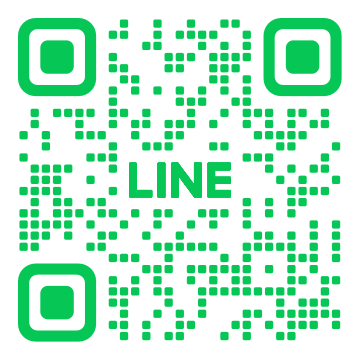
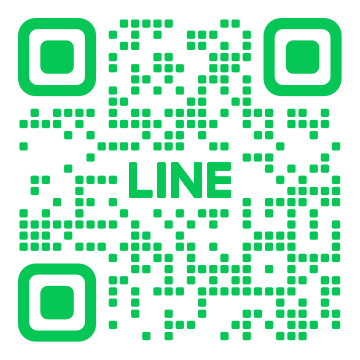
feat(contact): update official LINE OA QR code and link to https://lin.ee/qYT9XuK for Member and Owner

diff --git a/src/app/contact/page.tsx b/src/app/contact/page.tsx
@@ -38,10 +38,24 @@ export default function ContactPage() {
             <p>แชทกับทีมงานเพื่อสอบถามเรื่องบัญชี การสมัครงาน หรือการใช้งานเว็บไซต์</p>
             <small>@cyberjob</small>
           </div>
-          <div className="qr-code" aria-label="QR Code สำหรับติดต่อ CyberJob">
+          <a
+            href="https://lin.ee/qYT9XuK"
+            target="_blank"
+            rel="noopener noreferrer"
+            className="qr-code"
+            aria-label="QR Code สำหรับติดต่อ CyberJob"
+            title="สแกนหรือคลิกเพื่อเพิ่มเพื่อนทาง LINE"
+          >
             <img src="/contact/line-qr.png" alt="QR Code สำหรับติดต่อ CyberJob" onError={(event) => { event.currentTarget.style.display = "none"; }} />
-          </div>
-          <button type="button" className="line-action">แชทกับเรา <span aria-hidden="true">→</span></button>
+          </a>
+          <a
+            href="https://lin.ee/qYT9XuK"
+            target="_blank"
+            rel="noopener noreferrer"
+            className="line-action"
+          >
+            แชทกับเรา <span aria-hidden="true">→</span>
+          </a>
         </section>
 
         <section className="contact-methods" aria-label="ช่องทางติดต่ออื่น">

diff --git a/src/app/contact/contact.css b/src/app/contact/contact.css
@@ -15,8 +15,8 @@
 .line-badge { display: inline-flex; padding: 5px 10px; border-radius: 999px; background: #fff2a8; color: #6b5500; font-size: 11px; font-weight: 800; }
 .qr-code { position: relative; z-index: 1; width: 112px; height: 112px; padding: 7px; border-radius: 14px; background: #fff; box-shadow: 0 8px 20px rgb(0 80 40 / 16%); }
 .qr-code img { display: block; width: 100%; height: 100%; object-fit: cover; }
-.line-action { position: relative; z-index: 1; min-height: 48px; padding: 0 22px; border: 0; border-radius: 999px; background: #fff; color: #079b50; font-weight: 800; cursor: pointer; box-shadow: 0 8px 20px rgb(0 80 40 / 14%); }
-.line-action:hover { background: #effff6; transform: translateY(-1px); }
+.line-action { position: relative; z-index: 1; display: inline-flex; align-items: center; justify-content: center; text-decoration: none; min-height: 48px; padding: 0 22px; border: 0; border-radius: 999px; background: #fff; color: #079b50; font-weight: 800; cursor: pointer; box-shadow: 0 8px 20px rgb(0 80 40 / 14%); }
+.line-action:hover { background: #effff6; transform: translateY(-1px); color: #079b50; }
 .line-action span { margin-left: 8px; }
 
 .contact-methods { display: grid; grid-template-columns: repeat(2, minmax(0, 1fr)); gap: 18px; margin-top: 22px; }

diff --git a/src/components/support/SupportView.tsx b/src/components/support/SupportView.tsx
@@ -9,7 +9,7 @@ import { errorMessage, useApi, useOwner } from "@/lib/owner";
 import styles from "./Support.module.css";
 
 const LINE_ID = "@cyberjob";
-const LINE_URL = "https://line.me/R/ti/p/~@cyberjob";
+const LINE_URL = "https://lin.ee/qYT9XuK";
 const SUPPORT_EMAIL = "support@cyberjob.th";
 const SUPPORT_PHONE = "02-123-4567";
 
@@ -57,10 +57,10 @@ export function SupportView() {
           <span className={styles.lineId}>{LINE_ID}</span>
         </div>
 
-        <span className={styles.qrBox}>
+        <a className={styles.qrBox} href={LINE_URL} target="_blank" rel="noopener noreferrer" title="สแกนหรือคลิกเพื่อเพิ่มเพื่อนทาง LINE">
           {/* eslint-disable-next-line @next/next/no-img-element */}
           <img src="/contact/line-qr.png" alt={t("support.qrAlt")} width={84} height={84} />
-        </span>
+        </a>
 
         <a className={styles.lineCta} href={LINE_URL} target="_blank" rel="noreferrer">
           <svg width="18" height="18" viewBox="0 0 24 24" fill="currentColor" aria-hidden>
